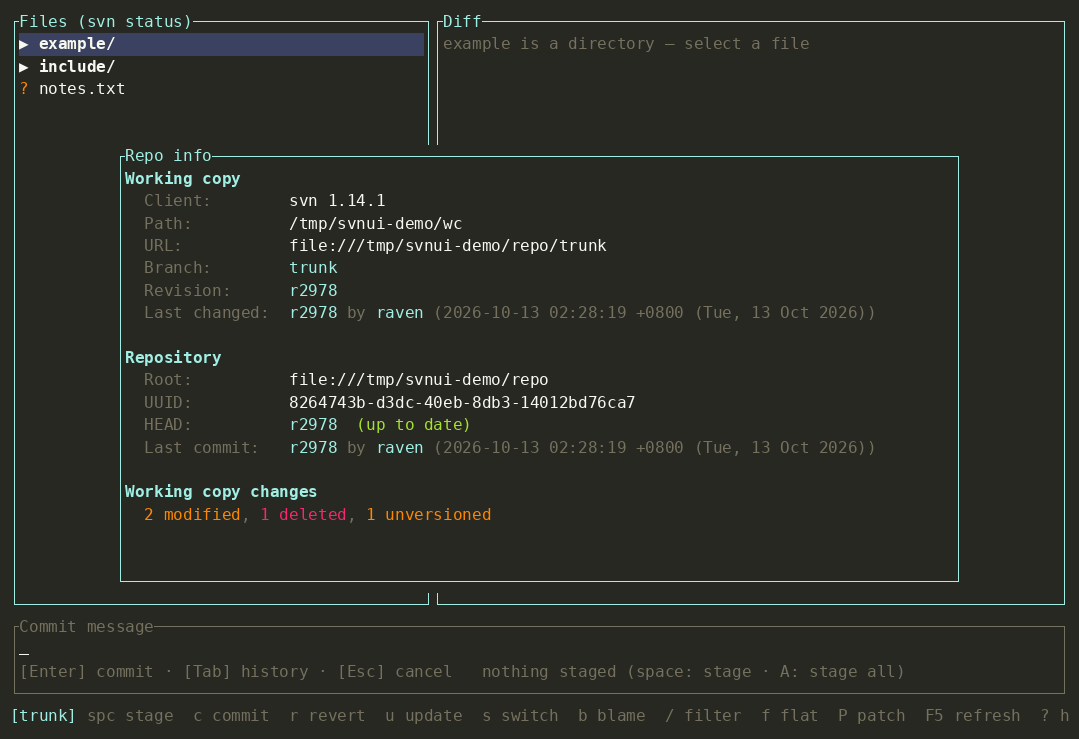
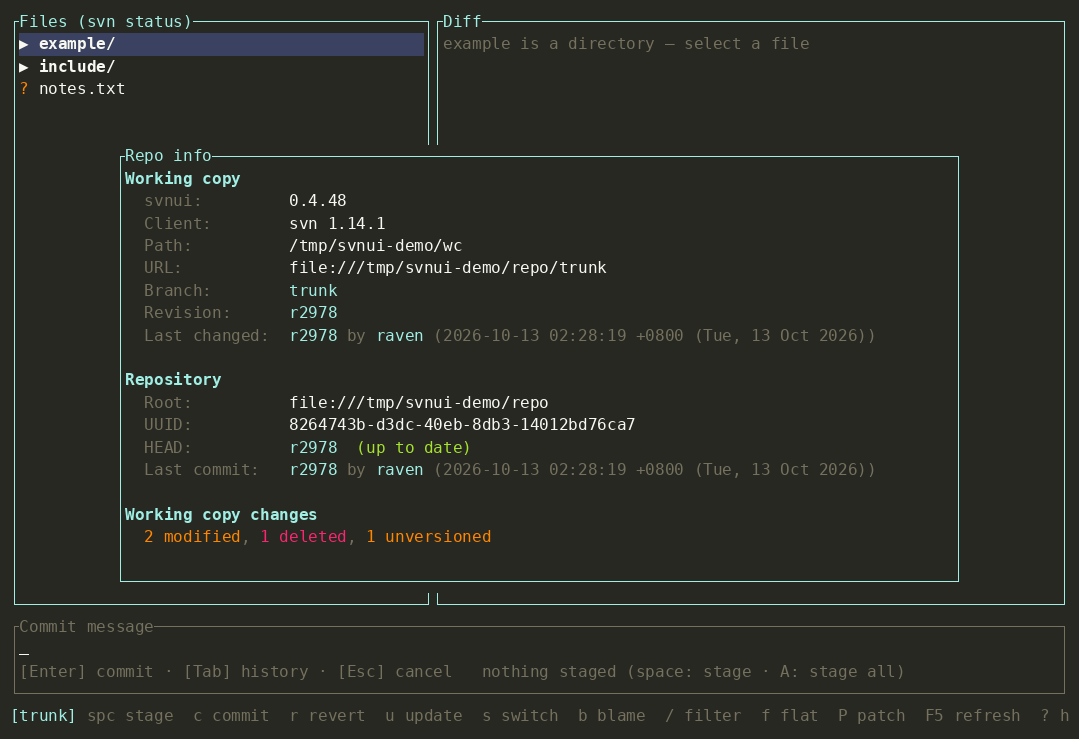
fix(diff): brighter whitespace tints; name the running build in repo info
The `·` markers that were still visible came from a stale local
target/release/svnui (0.4.46, built for the demo recording before the
glyph removal) — the source and the published binary had no glyphs left.
Two things make that mix-up impossible to misread:

- repo info (`i`) now names the running build next to the svn client
  version (`svnui: 0.4.49`), so an old binary is obvious at a glance;
- the whitespace tints are one step brighter (removed #870000, added
  #008700, tab #585858). They only appear on whitespace-only changes, so
  the extra contrast costs nothing.

No marker glyph remains anywhere in the diff path: blanks are expressed
with background only, the way gitui and tig do it. The `info` demo was
re-recorded to show the new line.

diff --git a/src/components/repo_info.rs b/src/components/repo_info.rs
@@ -46,6 +46,11 @@ pub fn repo_info_lines(
     };
 
     section(&mut out, "Working copy");
+    // the running build, so a stale local binary is obvious at a glance
+    out.push(field(
+        "svnui:",
+        Span::styled(env!("CARGO_PKG_VERSION").to_string(), theme.text),
+    ));
     if let Some(v) = client_version {
         out.push(field(
             "Client:",
@@ -231,6 +236,12 @@ mod tests {
             &theme,
         ));
         assert!(text.contains("Client:        svn 1.14.5"), "{text}");
+        // the running svnui build is shown too (a stale binary is otherwise
+        // indistinguishable from a bug)
+        assert!(
+            text.contains(&format!("svnui:         {}", env!("CARGO_PKG_VERSION"))),
+            "{text}"
+        );
         assert!(text.contains("HEAD:          r3"), "{text}");
         assert!(text.contains("(up to date)"), "{text}");
         assert!(!text.contains("revisions behind"), "{text}");

diff --git a/src/ui/style.rs b/src/ui/style.rs
@@ -39,12 +39,12 @@ pub mod palette {
     pub const HIT_BG: Color = Color::Indexed(94);
     /// 纯空白改动区间的底色（删除侧）：暗红。空白单元格没有字形，所以用
     /// 底色表达"这里的空白被删掉了"（tig 的 diff-highlight 同理）。
-    pub const WS_REMOVED_BG: Color = Color::Indexed(52);
+    pub const WS_REMOVED_BG: Color = Color::Indexed(88);
     /// 纯空白改动区间的底色（新增侧）：暗绿。
-    pub const WS_ADDED_BG: Color = Color::Indexed(22);
+    pub const WS_ADDED_BG: Color = Color::Indexed(28);
     /// 改动区间内由 tab 产生的单元格底色：中性灰，让 tab 与空格在展开后
     /// 仍可区分；不承载状态语义。
-    pub const WS_TAB_BG: Color = Color::Indexed(238);
+    pub const WS_TAB_BG: Color = Color::Indexed(240);
 }
 
 #[derive(Clone, Debug)]

diff --git a/README_EN.md b/README_EN.md
@@ -59,7 +59,7 @@ Covers the most common daily SVN operations:
 | **Clean up** | `C` runs `svn cleanup` (confirmed, and warns to make sure no other SVN client is writing): it removes write locks left by an interrupted operation and repairs the E155004/E155037 locked state. The target is the working-copy root, so a checkout started in a subdirectory is repaired as a whole; the status refreshes afterwards. svn errors E155004/E155037 get a hint to press `C` (a global key) |
 | **Patch management** | `P` saves working-copy changes as a timestamped patch file (an `svn diff` snapshot; the working copy is not reverted); `3` opens the patches tab (newest first) where `Enter`/`p` previews (reusing the diff popup), `a` applies (`svn patch`, confirmed) and `d` deletes (confirmed). Patches live in the platform data dir; override with `SVNUI_PATCH_DIR` |
 | **Filtering** | `/` filters files by path (status tab, popup input, live filtering; Esc clears an active filter) / searches commits (log tab). A `.svnignore` file at the working-copy root (.gitignore syntax) additionally hides matching files/dirs from the status tree; while active the status title shows a `[N hidden by .svnignore]` hint. `4` opens a built-in editor with live syntax checking (`Ctrl+s` saves and applies immediately) |
-| **Repo info** | `i` opens a repository overview popup: working-copy info (path/URL/branch/revision/last change), remote HEAD comparison (how many revisions behind, last commit), and a change summary (per-status counts + commit-set size), all color-coded |
+| **Repo info** | `i` opens a repository overview popup: the running svnui and svn client versions, working-copy info (path/URL/branch/revision/last change), remote HEAD comparison (how many revisions behind, last commit), and a change summary (per-status counts + commit-set size), all color-coded |
 | **Help** | `?` shows all key bindings |
 | **Async execution** | Every svn command runs on a background thread; the UI never blocks and shows a spinner |
 

diff --git a/README.md b/README.md
@@ -58,7 +58,7 @@
 | **清理工作副本** | `C` 执行 `svn cleanup`（带确认，并提示确认没有其他 SVN 客户端在写）：清除中断操作遗留的写锁，修复 E155004/E155037 锁死状态；清理目标是工作副本根，从子目录启动也能修好整个工作副本，成功后刷新状态。svn 报 E155004/E155037 时错误弹窗会提示按 `C`（全局键，任意标签页可用） |
 | **补丁管理** | `P` 将工作副本改动保存为带时间戳的补丁文件（`svn diff` 快照，不回滚工作副本）；`3` 打开补丁页浏览（最新在前）、`Enter`/`p` 预览（复用 Diff 弹窗）、`a` 应用（`svn patch`，带确认）、`d` 删除（带确认）。存储目录为平台数据目录，可用环境变量 `SVNUI_PATCH_DIR` 覆盖 |
 | **过滤** | `/` 按路径过滤文件（状态页，弹窗输入，实时筛选；Esc 清除已有筛选）/ 搜索提交（日志页）。另外支持在工作副本根目录放 `.svnignore`（.gitignore 语法），命中的文件/目录不进入状态树，生效时状态页标题显示 `[N hidden by .svnignore]` 提示；`4` 打开内置编辑器（实时语法检查，`Ctrl+s` 保存并立即生效） |
-| **仓库信息** | `i` 全局快捷键打开仓库概览弹窗：工作副本信息（路径/URL/分支/修订/最后变更）、远端 HEAD 对比（落后多少修订、最后一次提交）、当前改动统计（按状态分类计数 + 提交集大小） |
+| **仓库信息** | `i` 全局快捷键打开仓库概览弹窗：svnui 与 svn 客户端版本、工作副本信息（路径/URL/分支/修订/最后变更）、远端 HEAD 对比（落后多少修订、最后一次提交）、当前改动统计（按状态分类计数 + 提交集大小） |
 | **帮助** | `?` 查看全部快捷键 |
 | **异步执行** | 所有 svn 命令在后台线程执行，UI 不卡顿，带 spinner 指示 |
 
